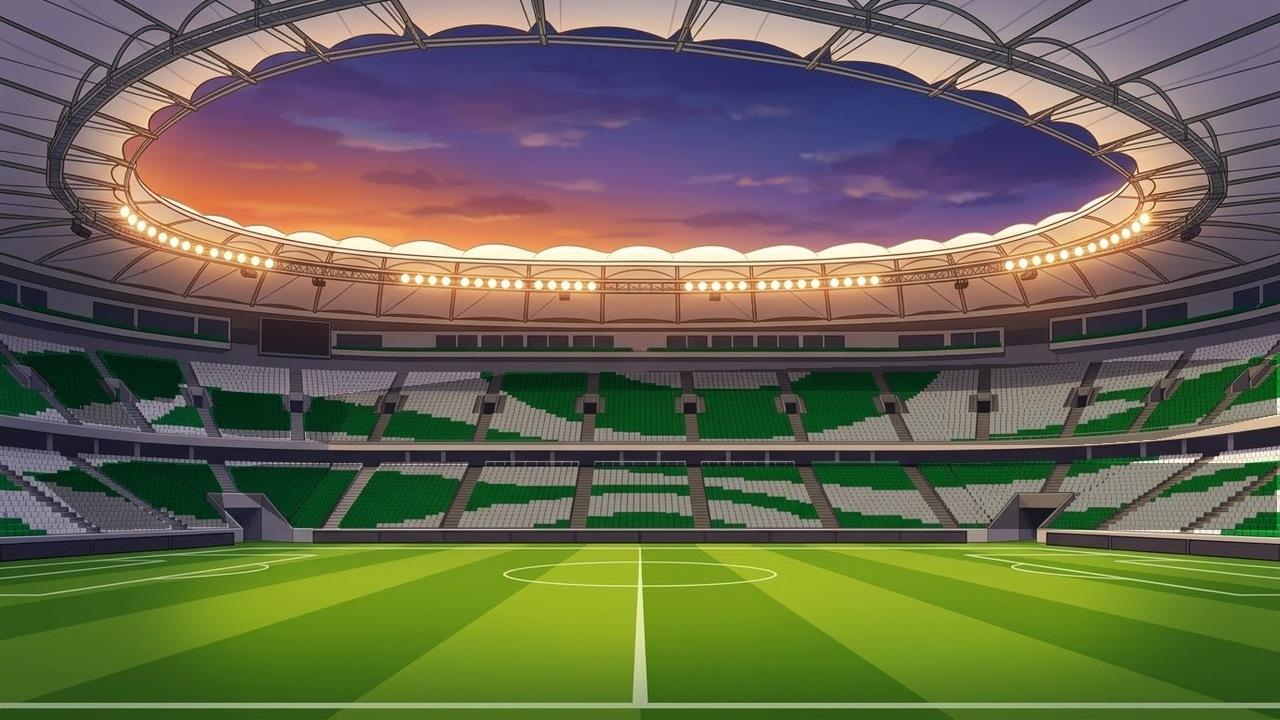
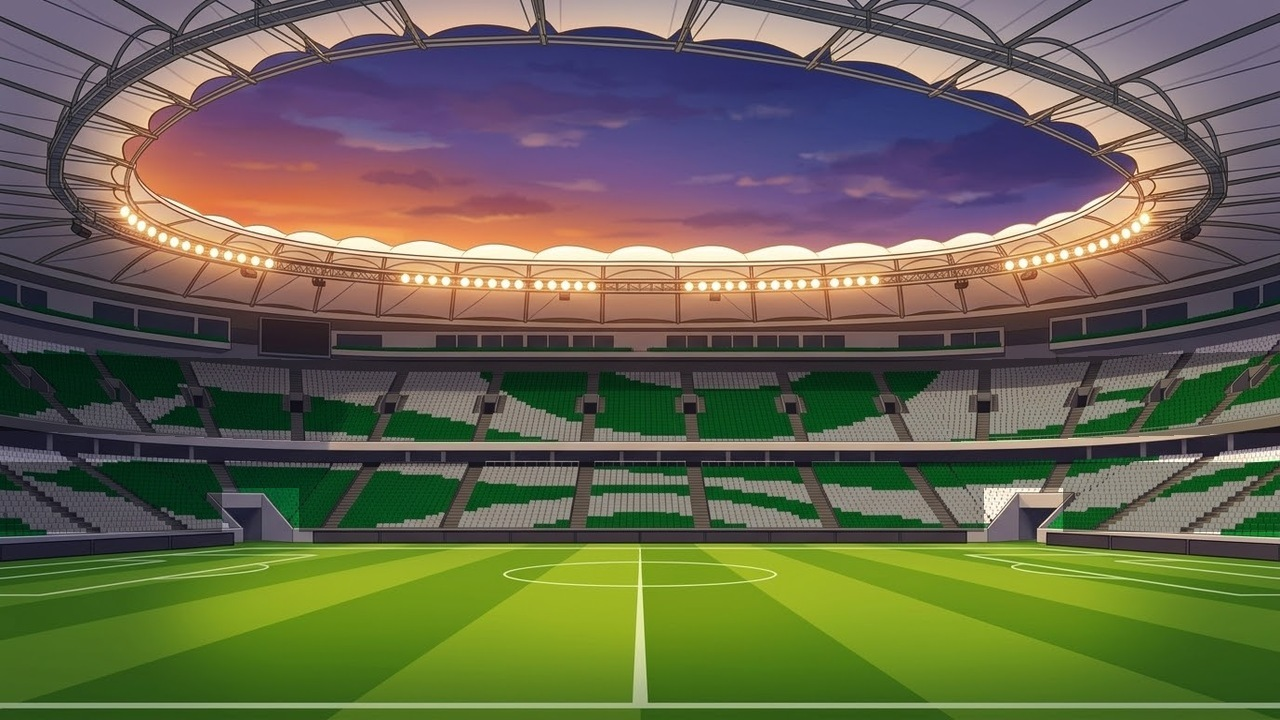
Tribun tamamen dolu; taraftarlar secilen karakterlere gore ikiye bolunur, pankartlar
Claude-Session: https://claude.ai/code/session_01MKBxJNLGR53ZhGKnJwbvgT

diff --git a/fx.py b/fx.py
@@ -14,6 +14,13 @@ TEAM = {
     "yellow": [(252, 205, 45), (45, 45, 55), (235, 165, 25)],
     "green": [(70, 175, 70), (250, 250, 250), (35, 120, 50)],
     "white": [(245, 245, 248), (60, 165, 75), (225, 228, 232)],
+    # karakter formalari (taraftarlar desteklediği oyuncunun rengini giyer)
+    "k0": [(225, 55, 55), (250, 250, 250), (180, 30, 35)],
+    "k1": [(50, 105, 220), (245, 245, 252), (30, 65, 160)],
+    "k2": [(140, 146, 158), (250, 210, 50), (100, 106, 118)],
+    "k3": [(246, 246, 250), (235, 195, 60), (215, 220, 228)],
+    "k4": [(252, 205, 45), (40, 40, 50), (235, 165, 25)],
+    "k5": [(40, 140, 60), (250, 250, 250), (25, 95, 40)],
 }
 SKINS = [(255, 216, 172), (236, 186, 142), (198, 142, 100), (142, 96, 64)]
 HAIRS = [(60, 40, 25), (25, 22, 25), (235, 200, 90), (150, 70, 30)]
@@ -125,6 +132,13 @@ class Crowd:
                 px = rnd.uniform(s["x0"] + 30, s["x1"] - 30)
                 self.flags.append([px, s["y0"] + 20, s["col"], rnd.uniform(0, 6), sc,
                                    1 if rnd.random() < 0.5 else -1])
+        # pankart yerleri: her yarida iki tane, ust ve alt tribunde
+        tiers = sorted(set(s["tier"] for s in secs))
+        ys = {tr: min(s["y0"] for s in secs if s["tier"] == tr) for tr in tiers}
+        self.banner_spots = []
+        for tr, xs in zip(tiers[-2:], ((250, 1030), (460, 820))):
+            for x in xs:
+                self.banner_spots.append((x, ys[tr] + 26))
         self.t = 0.0
         self.excite = 0.15
         self.target = 0.15
@@ -132,6 +146,8 @@ class Crowd:
         self.wave_x = None
         self.wave_t = 12.0
         self.boost_side = -1
+        self.boost_t = 0.0
+        self.teams = None
 
     # ------------------------------------------------------------ sprite
     def _sprite(self, key, pose):
@@ -192,16 +208,31 @@ class Crowd:
         return base
 
     # ------------------------------------------------------------ guncelle
+    def set_teams(self, c0, c1):
+        """Sol yari oyuncu 0'i, sag yari oyuncu 1'i destekler."""
+        self.teams = ("k%d" % c0, "k%d" % c1)
+        mid = self.width / 2
+        for fan in self.fans:
+            col, shade, skin, hair, sc = fan[2]
+            fan[2] = (self.teams[0 if fan[0] < mid else 1], shade, skin, hair, sc)
+        for fl in self.flags:
+            fl[2] = self.teams[0 if fl[0] < mid else 1]
+        self.boost_side = -1
+        self.boost_t = 0.0
+
     def kick(self, amount, side=-1):
         self.target = max(self.target, amount)
         if amount >= 0.9:
             self.excite = 1.0
             self.boost_side = side
+            self.boost_t = 3.5 if side in (0, 1) else 0.0
         for _ in range(int(amount * 25)):
             self.flash.append([random.uniform(0, self.width), random.uniform(30, self.lh - 20), random.uniform(0.1, 0.25)])
 
     def update(self, dt):
         self.t += dt
+        if self.boost_t > 0:
+            self.boost_t -= dt
         self.target += (0.15 - self.target) * min(1, dt * 0.35)
         self.excite += (self.target - self.excite) * min(1, dt * 4)
         rate = 1.0 + self.excite ** 2 * 60
@@ -245,10 +276,15 @@ class Crowd:
         ex = self.excite
         amp = 1.0 + ex * 7.5
         wx = self.wave_x
+        mid = self.width / 2
+        sad = self.boost_side if (self.boost_t > 0 and self.teams) else -1
         for f in self.fans:
             x, y, key, ph, spd, thr, always, scarf = f
             b = abs(math.sin(t * spd + ph))
             up = ex > thr
+            if sad >= 0 and (0 if x < mid else 1) != sad:
+                up = False   # gol yiyen tarafin taraftari susar
+                always = False
             jump = amp * b if (up or always) else 0.6 * math.sin(t * 1.3 + ph) + 0.6
             pose = 0
             if up or always:

diff --git a/main.py b/main.py
@@ -1596,6 +1596,8 @@ class MatchScene(Scene, OnlineMixin):
         self.stad = app.stadium if 0 <= app.stadium < len(STADIUMS) else 0
         self.crowd = app.crowds[self.stad]
         self.crowd.excite = self.crowd.target = 0.15
+        self.crowd.set_teams(self.chars[0], self.chars[1])
+        self.banners = self._make_banners()
         app.sound.ambience(True)
         if self.world:
             self.snap = self.world.snapshot()
@@ -2162,6 +2164,7 @@ class MatchScene(Scene, OnlineMixin):
         s = self.frame
         s.blit(A.stadiums[self.stad], (0, 0))
         self.crowd.draw(s)
+        self._draw_banners(s)
         sd = STADIUMS[self.stad]
         if sd["boards"]:
             self._draw_boards(s, sd["boards"], self.snap)
@@ -2261,6 +2264,43 @@ class MatchScene(Scene, OnlineMixin):
         screen.fill((0, 0, 0))
         screen.blit(s, (ox, oy))
         self._draw_overlays(screen, snap)
+
+    def _make_banners(self):
+        """Taraftar pankartlari: karakterin kafasi + adi, forma renginde."""
+        A = self.app.assets
+        k = gfx.K
+        out = []
+        secs = self.crowd.banner_spots
+        for side in (0, 1):
+            c = self.chars[side]
+            col = fx.TEAM["k%d" % c][0]
+            cv = gfx.Canvas(pygame.Surface((int(168 * k), int(66 * k)), pygame.SRCALPHA))
+            pill(cv, (0, 0, 168, 66), col, radius=16)
+            gd.circle(cv, (12, 14, 34), (34, 33), 29)
+            gd.circle(cv, (255, 255, 255), (34, 33), 27)
+            por = A.portrait[c]
+            cv.blit(por, por.get_rect(center=(34, 34)))
+            light = sum(col) > 560
+            draw_text(cv, sim.DISPLAY_NAMES[c], 22, (108, 33), (25, 30, 50) if light else WHITE,
+                      outline=0 if light else 3)
+            img = gfx.Img(cv.surf)
+            spots = [sp for sp in secs if (sp[0] < W / 2) == (side == 0)]
+            for x, y in spots:
+                out.append([img, x, y, random.uniform(0, 6.28), side])
+        return out
+
+    def _draw_banners(self, s):
+        ex = self.crowd.excite
+        sad = self.crowd.boost_side if self.crowd.boost_t > 0 else -1
+        for img, x, y, ph, side in self.banners:
+            happy = sad < 0 or sad == side
+            lift = (ex * 22 * abs(math.sin(self.t * 7 + ph))) if happy else 0
+            ang = math.sin(self.t * (2.2 + ex * 4) + ph) * (3 + ex * 6 if happy else 1.5)
+            cy = y - lift
+            for dx in (-60, 60):
+                gd.line(s, (70, 60, 55), (x + dx, cy + 8), (x + dx, cy + 46), 3)
+            r_ = tf.rotate(img, ang)
+            s.blit(r_, r_.get_rect(center=(x, cy)))
 
     def _draw_boards(self, s, spec, snap):
         """Saha kenarindaki LED reklam panolari: kayan yazilar, golde GOOOL."""
